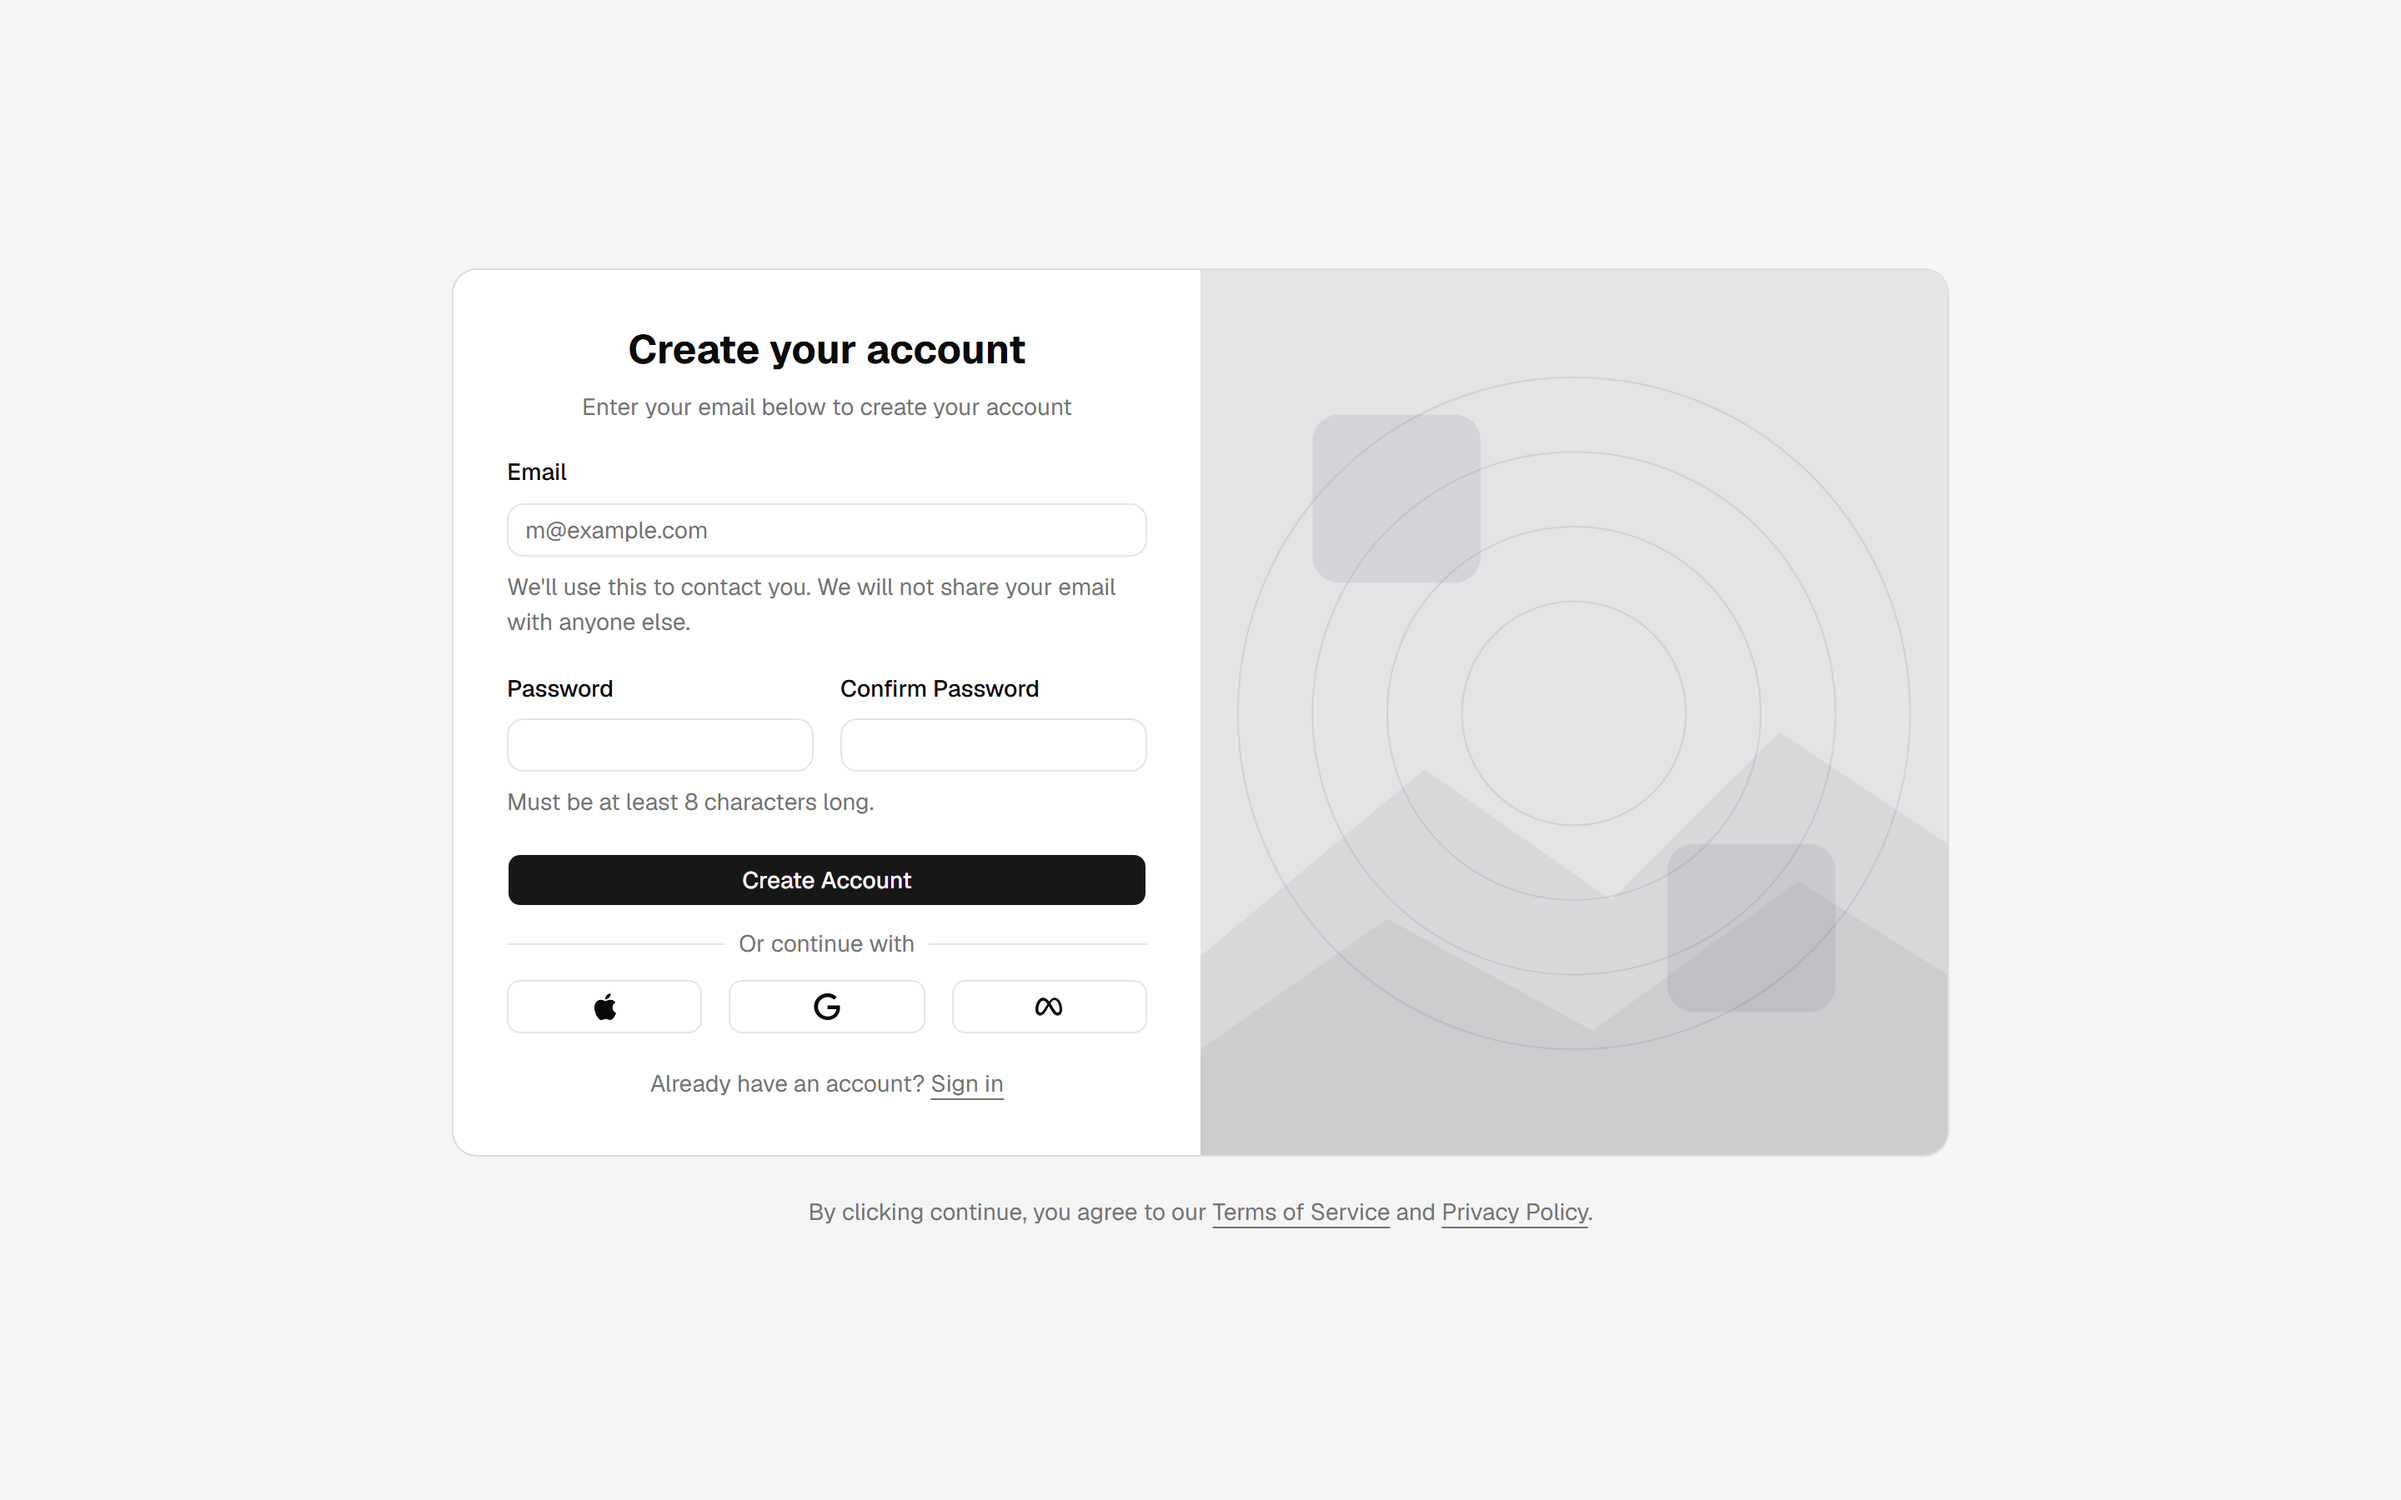
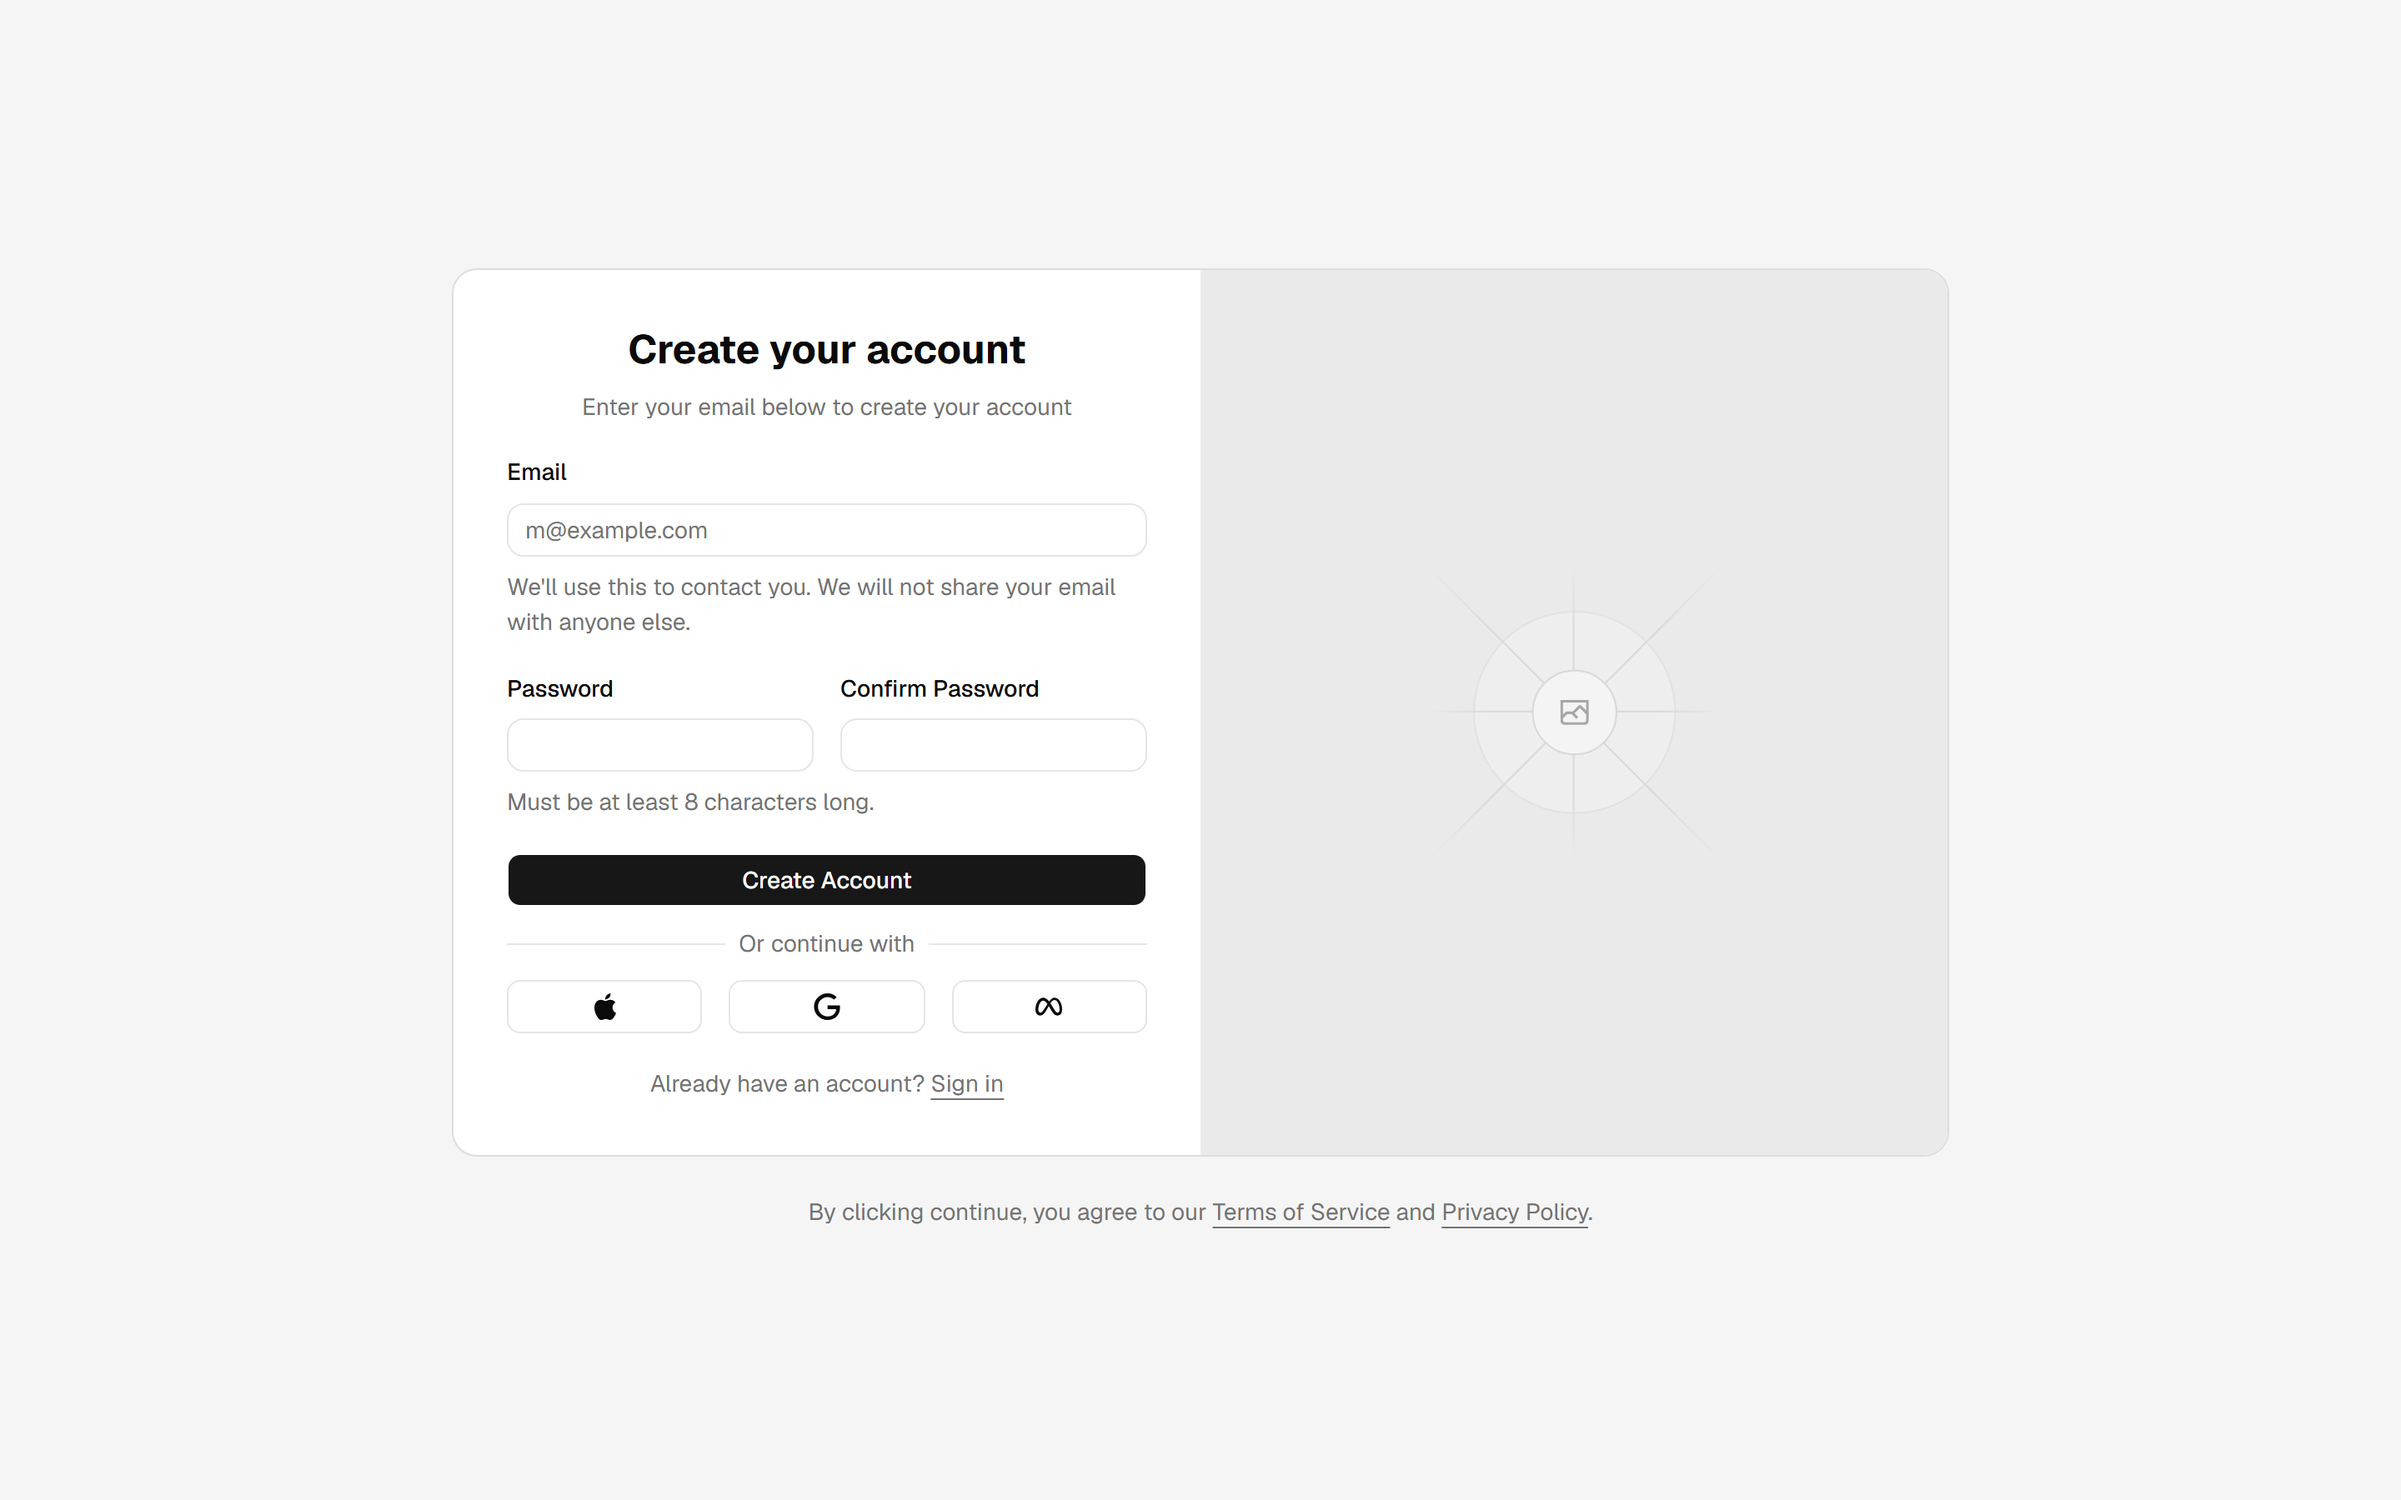
📦 refactor(blocks): use the shared placeholder asset for cover images
login-02, login-04, signup-02 and signup-04 now point their cover image at
/images/placeholder.svg, the asset that already ships with the site, and the
ad-hoc public/placeholder.svg is dropped.

Screenshots of the four blocks regenerated in light and dark.

Changed region(s): [[0.5, 0.56, 0.8125, 0.7778]]

diff --git a/libs/blocks/src/lib/signup-04/block.ts b/libs/blocks/src/lib/signup-04/block.ts
@@ -89,7 +89,7 @@ export const signup04Block: Block = {
           </form>
           <div class="bg-muted relative hidden md:block">
             <img
-              src="/placeholder.svg"
+              src="/images/placeholder.svg"
               alt="Image"
               class="absolute inset-0 h-full w-full object-cover dark:brightness-[0.2] dark:grayscale"
             />

diff --git a/libs/blocks/src/lib/login-04/block.ts b/libs/blocks/src/lib/login-04/block.ts
@@ -80,7 +80,7 @@ export const login04Block: Block = {
           </form>
           <div class="bg-muted relative hidden md:block">
             <img
-              src="/placeholder.svg"
+              src="/images/placeholder.svg"
               alt="Image"
               class="absolute inset-0 h-full w-full object-cover dark:brightness-[0.2] dark:grayscale"
             />

diff --git a/libs/blocks/src/lib/login-04/login-04.component.html b/libs/blocks/src/lib/login-04/login-04.component.html
@@ -61,7 +61,7 @@
           </form>
           <div class="bg-muted relative hidden md:block">
             <img
-              src="/placeholder.svg"
+              src="/images/placeholder.svg"
               alt="Image"
               class="absolute inset-0 h-full w-full object-cover dark:brightness-[0.2] dark:grayscale"
             />

diff --git a/libs/blocks/src/lib/signup-04/signup-04.component.html b/libs/blocks/src/lib/signup-04/signup-04.component.html
@@ -70,7 +70,7 @@
           </form>
           <div class="bg-muted relative hidden md:block">
             <img
-              src="/placeholder.svg"
+              src="/images/placeholder.svg"
               alt="Image"
               class="absolute inset-0 h-full w-full object-cover dark:brightness-[0.2] dark:grayscale"
             />

diff --git a/libs/blocks/src/lib/signup-02/block.ts b/libs/blocks/src/lib/signup-02/block.ts
@@ -80,7 +80,7 @@ export const signup02Block: Block = {
   </div>
   <div class="bg-muted relative hidden lg:block">
     <img
-      src="/placeholder.svg"
+      src="/images/placeholder.svg"
       alt="Image"
       class="absolute inset-0 h-full w-full object-cover dark:brightness-[0.2] dark:grayscale"
     />

diff --git a/libs/blocks/src/lib/login-02/block.ts b/libs/blocks/src/lib/login-02/block.ts
@@ -72,7 +72,7 @@ export const login02Block: Block = {
   </div>
   <div class="bg-muted relative hidden lg:block">
     <img
-      src="/placeholder.svg"
+      src="/images/placeholder.svg"
       alt="Image"
       class="absolute inset-0 h-full w-full object-cover dark:brightness-[0.2] dark:grayscale"
     />

diff --git a/libs/blocks/src/lib/login-02/login-02.component.html b/libs/blocks/src/lib/login-02/login-02.component.html
@@ -53,7 +53,7 @@
   </div>
   <div class="bg-muted relative hidden lg:block">
     <img
-      src="/placeholder.svg"
+      src="/images/placeholder.svg"
       alt="Image"
       class="absolute inset-0 h-full w-full object-cover dark:brightness-[0.2] dark:grayscale"
     />

diff --git a/libs/blocks/src/lib/signup-02/signup-02.component.html b/libs/blocks/src/lib/signup-02/signup-02.component.html
@@ -61,7 +61,7 @@
   </div>
   <div class="bg-muted relative hidden lg:block">
     <img
-      src="/placeholder.svg"
+      src="/images/placeholder.svg"
       alt="Image"
       class="absolute inset-0 h-full w-full object-cover dark:brightness-[0.2] dark:grayscale"
     />
